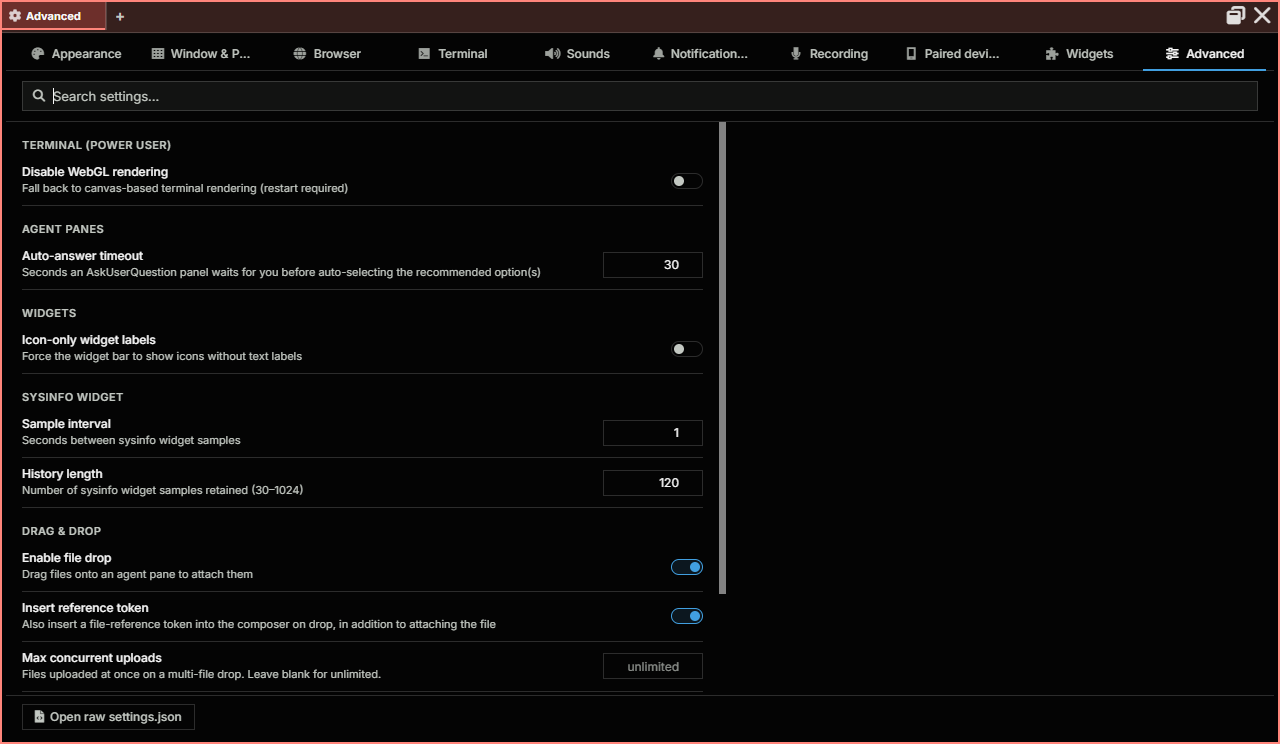
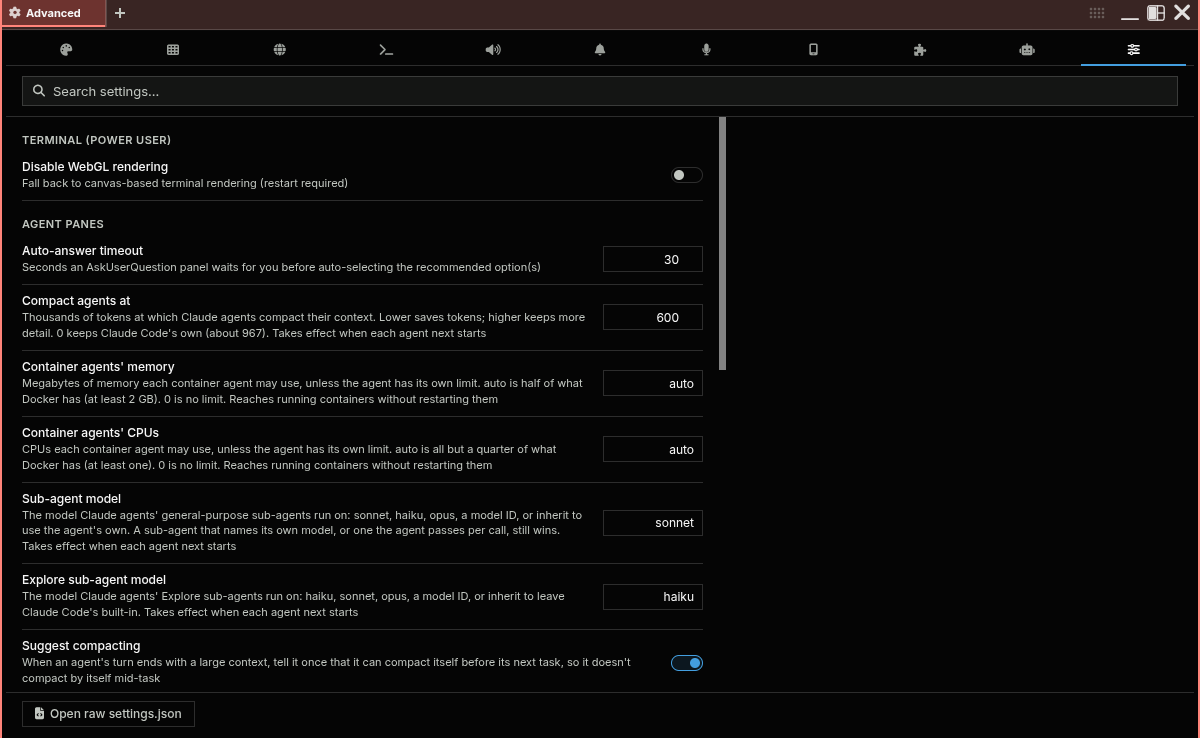
docs: screenshots retaken from the 0.60.9 release
Agent: opaz@charlie

Changed region(s): [[0.0, 0.0, 1.0, 1.0], [0.4933, 0.1558, 0.6167, 0.8415], [0.9867, 0.1558, 1.0, 0.187]]

diff --git a/src/content/docs/settings.md b/src/content/docs/settings.md
@@ -59,7 +59,7 @@ Pane block ids in headers (a debugging aid), the view a new tab or pane opens wi
 
 **Agents on sites**: the standing powers you have given an agent on a site, from an **Always** answer to its auto-approve request or added here. Each row has **Revoke**, a **Terminal** checkbox for running commands in a web terminal there, and the agent and site it covers. Under it, add a row with an agent, a site and **Allow**, or use the **Google Cloud Shell** and **Azure Cloud Shell** presets. See [Standing powers](/browser-pane/#standing-powers).
 
-![Settings, Browser tab: the browser profiles](../../assets/screenshots/settings/settings-browser.png)
+![Settings, Browser tab: browser profiles, Pause all agent browsing and Agents on sites](../../assets/screenshots/settings/settings-browser.png)
 
 ### Terminal
 
@@ -123,7 +123,7 @@ Then your own widgets: install one from a `widget.json` or a `.zip`, rescan, ope
 
 Power-user settings, in groups. **Developer**: **Dev mode**. **Terminal (power user)**: WebGL terminal rendering. **Agent panes**: the auto-answer timeout, when Claude agents compact (**Compact agents at** and **Suggest compacting**), the memory and CPU limits of container agents, the models of Claude's sub-agents and Explore sub-agents, overlap notes between agents, **Retry after the API is back**, and **Remind idle agents of their backlog**. **Sysinfo widget**: the sample interval and history. **Drag & drop**. **Environment**: environment variables for every shell.
 
-![Settings, Advanced tab](../../assets/screenshots/settings/settings-advanced.png)
+![Settings, Advanced tab: the agent panes group, with the compaction and container limit settings](../../assets/screenshots/settings/settings-advanced.png)
 
 ## Settings File Location
 

diff --git a/src/content/docs/first-agent.md b/src/content/docs/first-agent.md
@@ -77,7 +77,7 @@ Open an Agent pane. The starter layout already has one; you can also click **Age
 - **My Agents**: agents you've already created. Click one to relaunch it and continue its current conversation. See [My Agents](#my-agents) for what each row shows and what its menu does.
 - **New Agent**: one card per harness. Each card is a template. Some cards carry **Free** and **Local** tags, and chips above the cards filter them (see below).
 
-![The agent picker: three agents under My Agents, each with its account and last message, and the New Agent cards below](../../assets/screenshots/agent/agent-picker.png)
+![The agent picker with no agents yet: the New Agent cards, each with its Free and Local tags, and the Free, Local and Installed chips above them](../../assets/screenshots/agent/agent-picker.png)
 
 ### Free and Local tags
 
@@ -284,7 +284,7 @@ Skills are reusable procedures an agent follows when they are relevant; only a s
 
 See [Skills](/memory/#skills) for when to use a skill instead of Global Memory, and how binding works:
 
-![Memory → Skills: a skill opened, with who uses it and Bind to agent](../../assets/screenshots/memory/memory-skills.png)
+![Memory → Skills: the skill list, with + New skill, Import a skill… and Agents and skills](../../assets/screenshots/memory/memory-skills.png)
 
 AgentMux writes skills into the agent's working directory as Claude Code slash commands (`.claude/commands/`) and skills (`.claude/skills/`), so they take effect for Claude Code agents (`crates/srv/src/backend/agent_config.rs`, `build_config_files`).
 

diff --git a/src/content/docs/memory.md b/src/content/docs/memory.md
@@ -144,7 +144,9 @@ A rule that only matters for one kind of task belongs in a skill. A rule that mu
 
 A skill's page says "Used by N agents" and lists them, each with **Unbind**.
 
-![Memory → Skills: a skill opened: its description, format and content, "Used by 0 agents", and Bind to agent](../../assets/screenshots/memory/memory-skills.png)
+The section lists each skill with who it reaches (**All agents** for `disk-cleanup`, the one skill AgentMux ships), and ends with **+ New skill**, **Import a skill…** and **Agents and skills**.
+
+![Memory → Skills: the skill list with its reach tag, and + New skill, Import a skill… and Agents and skills below it](../../assets/screenshots/memory/memory-skills.png)
 
 ![A new skill: Name, Format, Trigger, Description and Content](../../assets/screenshots/memory/memory-skill-new.png)
 

diff --git a/.changesets/1793465718-screenshots-retaken-from-the-0-60-9-release-the-agent-picker-y1aj.md b/.changesets/1793465718-screenshots-retaken-from-the-0-60-9-release-the-agent-picker-y1aj.md
@@ -1,0 +1,5 @@
+---
+type: patch
+---
+
+Screenshots retaken from the 0.60.9 release: the agent picker with Free and Local tags, Settings Browser and Advanced, Memory Skills and the pane menu
